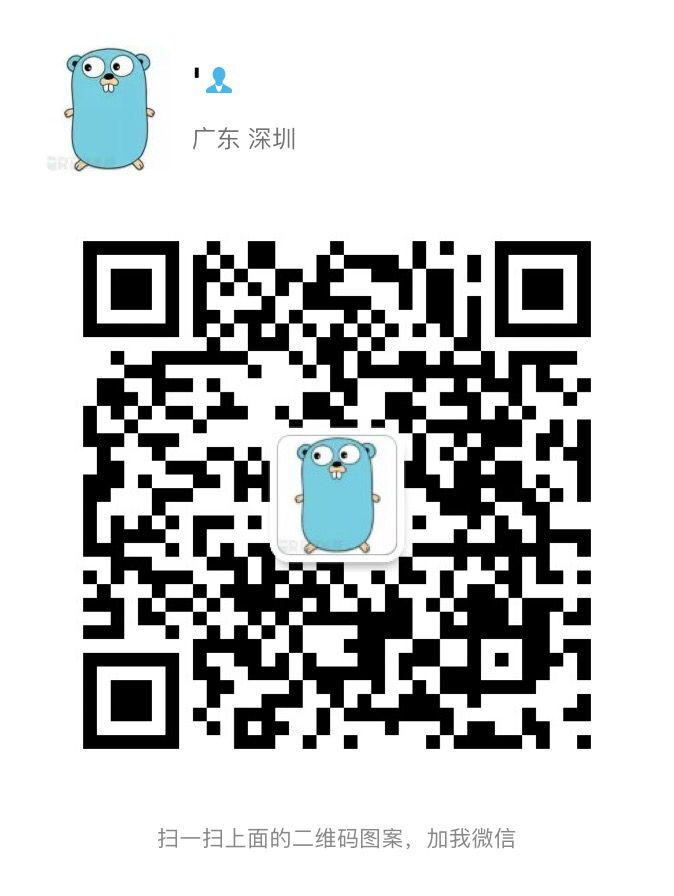
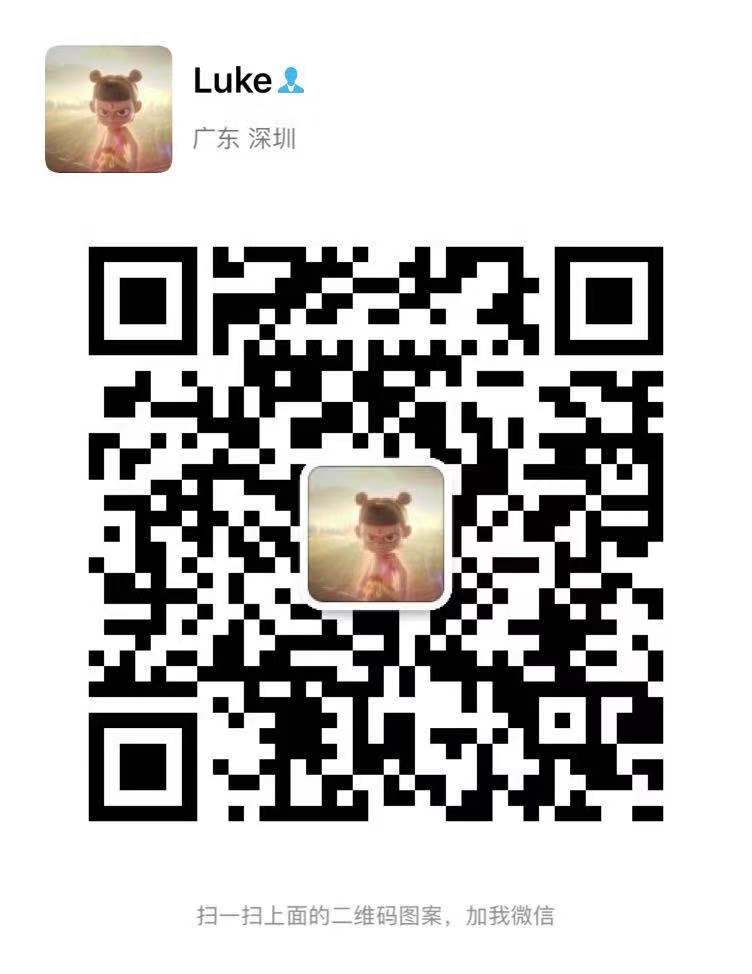
修改图片

diff --git a/README.md b/README.md
@@ -96,7 +96,7 @@ go get -v github.com/liuning3399/app_go
 
 ## 与作者对话
 
-> 作者微信号：it23456789，微信二维码：
+> 作者微信号：forest14607，微信二维码：
 
 <img src="./wechat.jpeg" width="256" height="256" />
 
